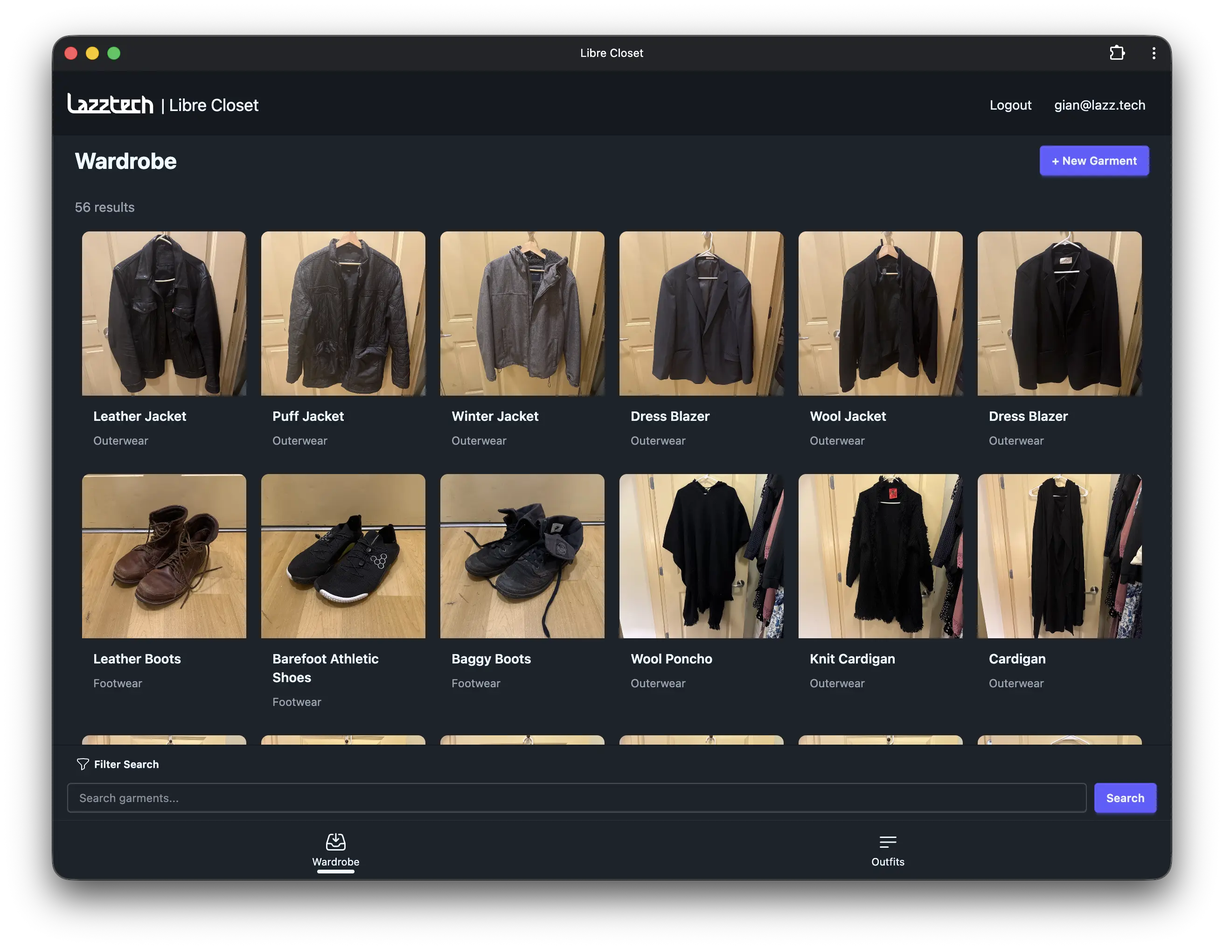
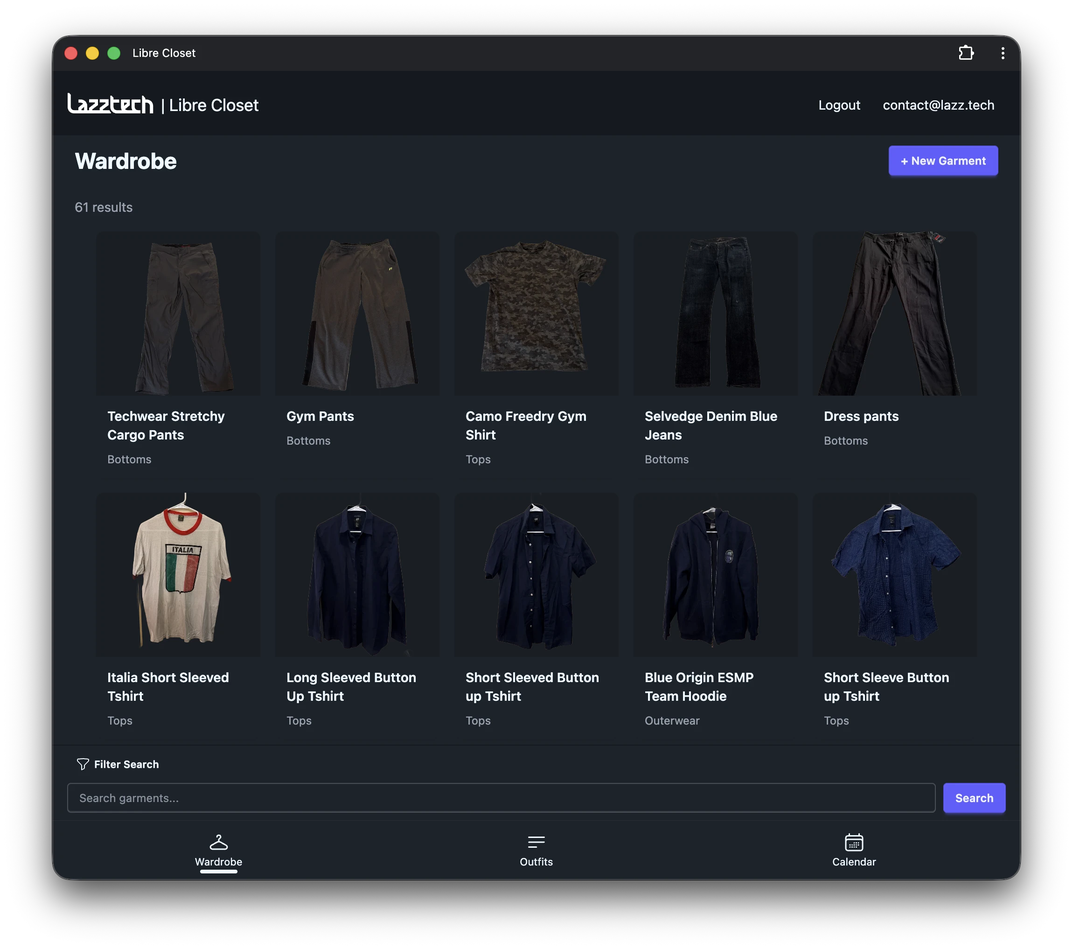
v0.2.0 (#45)
* readme

* New screenshots

* readme

* readme

* formatting

* changelog

* readme dynamic ghcr pulls badge

* readme

* landing page updates

* dock icon

* screenshots

* mobile screenshots

diff --git a/README.md b/README.md
@@ -2,33 +2,25 @@
 
 > Your wardrobe. Your data.
 
-A free, open-source, self-hosted wardrobe organizer. Catalog your clothes, upload photos, build outfits, and access everything from your phone as an offline-ready PWA — all on your own server.
+A free, open-source, self-hosted wardrobe organizer. Catalog your clothes, upload photos, build outfits, and access everything from your phone as an offline-ready PWA - all on your own server.
 
 [![License: AGPL-3.0](https://img.shields.io/badge/License-AGPL--3.0-blue.svg)](https://www.gnu.org/licenses/agpl-3.0)
-[![Version](https://img.shields.io/badge/Version-0.1.9-green.svg)](https://github.com/lazztech/libre-closet/tags)
-[![GHCR Pulls](https://img.shields.io/badge/GHCR%20pulls-2.85k-grey?logo=github&logoColor=959da5&labelColor=333a41)](https://github.com/lazztech/libre-closet/pkgs/container/libre-closet)
+[![Version](https://img.shields.io/badge/Version-0.2.0-green.svg)](https://github.com/lazztech/libre-closet/tags)
+[![GHCR Pulls](https://img.shields.io/badge/dynamic/json?url=https%3A%2F%2Fipitio.github.io%2Fbackage%2FLazztech%2FLibre-Closet%2Flibre-closet.json&query=downloads&label=GHCR%20pulls&logo=github&logoColor=959da5&labelColor=333a41)](https://github.com/lazztech/libre-closet/pkgs/container/libre-closet)
 [![Docker Pulls](https://img.shields.io/docker/pulls/lazztech/libre-closet?logo=docker&logoColor=959da5&labelColor=333a41&label=Docker%20Pulls)](https://hub.docker.com/r/lazztech/libre-closet)
 [![Join the Discussion](https://img.shields.io/badge/Community-Join%20the%20Discussion-2EA44F?logo=github&logoColor=white&labelColor=1F2937)](https://github.com/Lazztech/Libre-Closet/discussions)
 
-<!-- [![GHCR Pulls](https://img.shields.io/badge/dynamic/json?url=https%3A%2F%2Fipitio.github.io%2Fbackage%2Flazztech%2Flibre-closet%2Flibre-closet.json&query=%24.downloads&label=GHCR%20pulls&logo=github&logoColor=959da5&labelColor=333a41)](https://github.com/lazztech/libre-closet/pkgs/container/libre-closet) -->
-
-Crafted and engineered with care and intention by [Lazztech LLC](https://lazz.tech/about)
+Crafted and engineered with care and intention by [Lazztech LLC](https://lazz.tech/about) 🖤
 
 ---
 
 ## News
 
-#### Unreleased (v0.2.0 - Coming 4/10/26!)
-
-The following has now all been merged in and is going through some final testing before release. When it's released `0.2.0` will become the new `latest` tagged Docker image.
-
-- Clueless inspired outfit builder
-- Outfit Scheduling
-- Image background removal (Client-side and Server-side)
-- Customizable categories
+**`v0.2.0` Released! - April 10, 2026**
 
 #### Released
 
+- `v0.2.0 - April 10, 2026:` Clueless inspired outfit builder, Outfit Scheduling, Image Background Removal, & Customizable categories
 - `v0.1.9 - March 19, 2026:` Garment list now orders by most recently added
 - `v0.1.8 - March 13, 2026:` Added French, German, and Spanish language support.
 - `v0.1.7 - March 7, 2026:` Added Italian language support.
@@ -49,28 +41,36 @@ docker run -d \
 
 Open [http://localhost:3000](http://localhost:3000). No account required by default.
 
-**Want to try it without self-hosting?** A public instance is running at [https://librecloset.lazz.tech](https://librecloset.lazz.tech) — register a free account to get started. No guest login exists, but registration is instant and requires no email verification.
+**Want to try it without self-hosting?** A public instance is running at [https://librecloset.lazz.tech](https://librecloset.lazz.tech) - register a free account to get started. No guest login exists, but registration is instant and requires no email verification.
 
 ---
 
 ## Screenshots
 
-| Wardrobe (Viewed as a standalone PWA)           | Garment detail                                  | Outfit builder                                  | Outfit detail                                  |
-| ----------------------------------------------- | ----------------------------------------------- | ----------------------------------------------- | ---------------------------------------------- |
-| ![Wardrobe grid](screenshots/Screenshot_1.webp) | ![Garment detail](screenshots/Screenshot_2.png) | ![Outfit builder](screenshots/Screenshot_3.png) | ![Outfit detail](screenshots/Screenshot_4.png) |
+Note, these screenshots are taken of the web application viewed as an installed standalone PWA. This tool may also be used like a traditional web app in the browser.
+
+| Wardrobe (Mobile)                                      | Outfits (Mobile)                                 | Outfit Schedule (Mobile)                                 | Outfit Builder (Mobile)                          |
+| ------------------------------------------------------ | ------------------------------------------------ | -------------------------------------------------------- | ------------------------------------------------ |
+| ![Wardrobe grid](screenshots/Screenshot_mobile_1.webp) | ![Outfits](screenshots/Screenshot_mobile_2.webp) | ![Outfit Schedule](screenshots/Screenshot_mobile_3.webp) | ![Outfit ](screenshots/Screenshot_mobile_4.webp) |
+
+| Wardrobe (Desktop)                              | Outfits (Desktop)                         | Outfit Schedule (Desktop)                         | Outfit Builder (Desktop)                        |
+| ----------------------------------------------- | ----------------------------------------- | ------------------------------------------------- | ----------------------------------------------- |
+| ![Wardrobe grid](screenshots/Screenshot_1.webp) | ![Outfits](screenshots/Screenshot_2.webp) | ![Outfit Schedule](screenshots/Screenshot_3.webp) | ![Outfit detail](screenshots/Screenshot_4.webp) |
 
 ---
 
 ## Features
 
-- **Garment catalog** — name, category, brand, size, colors, notes, photo
-- **Outfit builder** — combine garments into saved looks
-- **Photo uploads** — images auto-converted to optimized WebP
-- **Offline-ready PWA** — install to home screen, works without internet
-- **Optional auth** — run open for personal use or enable JWT accounts for multi-user
-- **S3 or local storage** — local disk by default, swap to any S3-compatible provider
-- **SQLite or PostgreSQL** — SQLite by default, PostgreSQL for scale
-- **Multi-language** — UI available in English, Italian, French, German, and Spanish
+- **Garment catalog** - name, category, brand, size, colors, notes, photo
+- **Customizable categories** - custom category support with filtering and input suggestion as you type
+- **Outfit builder** - combine garments into saved looks with the Clueless inspired outfit builder
+- **Outfit Scheduling** - schedule out multiple outfits for given days through the week and get a view of what you've worn
+- **Image Background Removal** - Images automatically have their backgrounds removed and optimized WebP upon upload
+- **Offline-ready PWA** - install to home screen, works without internet
+- **Optional auth** - run open for personal use or enable JWT accounts for multi-user
+- **S3 or local storage** - local disk by default, swap to any S3-compatible provider
+- **SQLite or PostgreSQL** - SQLite by default, PostgreSQL for scale
+- **Multi-language** - UI available in English, Italian, French, German, and Spanish
 
 ---
 
@@ -122,37 +122,34 @@ npm run start:prod
 
 `.env` contains committed defaults. Override any value via a `.env.local` file (gitignored) or by passing real environment variables to Docker.
 
-| Variable                           | Description                                    | Default        | Example                                                                                   |
-| ---------------------------------- | ---------------------------------------------- | -------------- | ----------------------------------------------------------------------------------------- |
-| `APP_NAME`                         | Display name shown in the UI and navbar        | `Libre Closet` | `My awesome Closet manager`                                                               |
-| `DATA_PATH`                        | Directory for SQLite DB and uploaded files     | `./data`       | `./libre-closet-data`                                                                     |
-| `AUTH_ENABLED`                     | Enable JWT user accounts and login             | `false`        | `true`                                                                                    |
-| `PWA_ENABLED`                      | Enable service worker and PWA install prompt   | `false`        | `true`                                                                                    |
-| `ACCESS_TOKEN_SECRET`              | JWT signing secret — **change for production** | `ChangeMe!`    | `u9n8c2y847rfctb23468tcb689f243`                                                          |
-| `DATABASE_TYPE`                    | `sqlite` or `postgres`                         | `sqlite`       | `postgres`                                                                                |
-| `DATABASE_HOST`                    | Postgres host                                  | —              | `192.168.10.5`                                                                            |
-| `DATABASE_PORT`                    | Postgres port                                  | `5432`         | `9867`                                                                                    |
-| `DATABASE_USER`                    | Postgres user                                  | —              | `postgres`                                                                                |
-| `DATABASE_PASS`                    | Postgres password                              | —              | `7yfhcn2349cr32f`                                                                         |
-| `DATABASE_SCHEMA`                  | Postgres schema                                | `postgres`     | `libre-closet-schema`                                                                     |
-| `DATABASE_SSL`                     | Use SSL for Postgres                           | `false`        | `true`                                                                                    |
-| `FILE_STORAGE_TYPE`                | `local` or `object` (S3)                       | `local`        | `object`                                                                                  |
-| `OBJECT_STORAGE_ACCESS_KEY_ID`     | S3 access key                                  | —              | `AKIAIOSFODNN7EXAMPLE`                                                                    |
-| `OBJECT_STORAGE_SECRET_ACCESS_KEY` | S3 secret key                                  | —              | `wJalrXUtnFEMI/K7MDENG/bPxRfiCYEXAMPLEKEY`                                                |
-| `OBJECT_STORAGE_ENDPOINT`          | S3-compatible endpoint URL                     | —              | `https://s3.example.com:8443`                                                             |
-| `OBJECT_STORAGE_REGION`            | S3 region                                      | `us-east-1`    | `us-west-1`                                                                               |
-| `OBJECT_STORAGE_BUCKET_NAME`       | S3 bucket name                                 | `libre-closet` | `my-awesome-closet-manager-bucket`                                                        |
-| `EMAIL_FROM_ADDRESS`               | From address for password reset emails         | —              | `LibreCloset@example.com`                                                                 |
-| `EMAIL_TRANSPORT`                  | `gmail` or `mailgun`                           | `gmail`        | `mailgun`                                                                                 |
-| `EMAIL_API_KEY`                    | Mailgun API key                                | —              | `fyhn2437cryb248cbrdc32`                                                                  |
-| `PUBLIC_VAPID_KEY`                 | Web push — generate for production             | —              | `BEl62iUYgUivxIkv69yViEuiBIa-Ib9-SkvMeAtA3LFgDzkrxZJjSgSnfckjBJuBkr3qBUYIHBQFLXYp5Nksh8U` |
-| `PRIVATE_VAPID_KEY`                | Web push — generate for production             | —              | `UUxI4O8-FbRouAevSmBQ6o18hgE4nSG3qwvJTfKc-ls`                                             |
-
-<!-- Commented out not yet released
-| `SERVER_BG_REMOVAL_ENABLED`                    | Enable server-side ONNX inference as fallback when client-side removal didn't run (e.g. older browser) or to lazily remove background from garments uploaded before background removal shipped. Disable on very low-powered hosts to prevent CPU spikes  If `false`: nobg endpoint redirects to original, client-side script not loaded | `true`  | `false`  |
-| `SERVER_BG_REMOVAL_CONCURRENCY`                | Max concurrent server-side ONNX inference jobs (fallback path only)              | `1`            | `1`                                                                                       |
-| `SERVER_BG_REMOVAL_MODEL`                      | ONNX model size for server-side background removal (`small`, `medium`, `large`) | `small` | `medium` |
- -->
+| Variable                           | Description                                                                                                                                                                                                                                                                                                                            | Default        | Example                                                                                   |
+| ---------------------------------- | -------------------------------------------------------------------------------------------------------------------------------------------------------------------------------------------------------------------------------------------------------------------------------------------------------------------------------------- | -------------- | ----------------------------------------------------------------------------------------- |
+| `APP_NAME`                         | Display name shown in the UI and navbar                                                                                                                                                                                                                                                                                                | `Libre Closet` | `My awesome Closet manager`                                                               |
+| `DATA_PATH`                        | Directory for SQLite DB and uploaded files                                                                                                                                                                                                                                                                                             | `./data`       | `./libre-closet-data`                                                                     |
+| `AUTH_ENABLED`                     | Enable JWT user accounts and login                                                                                                                                                                                                                                                                                                     | `false`        | `true`                                                                                    |
+| `PWA_ENABLED`                      | Enable service worker and PWA install prompt                                                                                                                                                                                                                                                                                           | `false`        | `true`                                                                                    |
+| `ACCESS_TOKEN_SECRET`              | JWT signing secret - **change for production**                                                                                                                                                                                                                                                                                         | `ChangeMe!`    | `u9n8c2y847rfctb23468tcb689f243`                                                          |
+| `DATABASE_TYPE`                    | `sqlite` or `postgres`                                                                                                                                                                                                                                                                                                                 | `sqlite`       | `postgres`                                                                                |
+| `DATABASE_HOST`                    | Postgres host                                                                                                                                                                                                                                                                                                                          | -              | `192.168.10.5`                                                                            |
+| `DATABASE_PORT`                    | Postgres port                                                                                                                                                                                                                                                                                                                          | `5432`         | `9867`                                                                                    |
+| `DATABASE_USER`                    | Postgres user                                                                                                                                                                                                                                                                                                                          | -              | `postgres`                                                                                |
+| `DATABASE_PASS`                    | Postgres password                                                                                                                                                                                                                                                                                                                      | -              | `7yfhcn2349cr32f`                                                                         |
+| `DATABASE_SCHEMA`                  | Postgres schema                                                                                                                                                                                                                                                                                                                        | `postgres`     | `libre-closet-schema`                                                                     |
+| `DATABASE_SSL`                     | Use SSL for Postgres                                                                                                                                                                                                                                                                                                                   | `false`        | `true`                                                                                    |
+| `FILE_STORAGE_TYPE`                | `local` or `object` (S3)                                                                                                                                                                                                                                                                                                               | `local`        | `object`                                                                                  |
+| `OBJECT_STORAGE_ACCESS_KEY_ID`     | S3 access key                                                                                                                                                                                                                                                                                                                          | -              | `AKIAIOSFODNN7EXAMPLE`                                                                    |
+| `OBJECT_STORAGE_SECRET_ACCESS_KEY` | S3 secret key                                                                                                                                                                                                                                                                                                                          | -              | `wJalrXUtnFEMI/K7MDENG/bPxRfiCYEXAMPLEKEY`                                                |
+| `OBJECT_STORAGE_ENDPOINT`          | S3-compatible endpoint URL                                                                                                                                                                                                                                                                                                             | -              | `https://s3.example.com:8443`                                                             |
+| `OBJECT_STORAGE_REGION`            | S3 region                                                                                                                                                                                                                                                                                                                              | `us-east-1`    | `us-west-1`                                                                               |
+| `OBJECT_STORAGE_BUCKET_NAME`       | S3 bucket name                                                                                                                                                                                                                                                                                                                         | `libre-closet` | `my-awesome-closet-manager-bucket`                                                        |
+| `EMAIL_FROM_ADDRESS`               | From address for password reset emails                                                                                                                                                                                                                                                                                                 | -              | `LibreCloset@example.com`                                                                 |
+| `EMAIL_TRANSPORT`                  | `gmail` or `mailgun`                                                                                                                                                                                                                                                                                                                   | `gmail`        | `mailgun`                                                                                 |
+| `EMAIL_API_KEY`                    | Mailgun API key                                                                                                                                                                                                                                                                                                                        | -              | `fyhn2437cryb248cbrdc32`                                                                  |
+| `PUBLIC_VAPID_KEY`                 | Web push - generate for production                                                                                                                                                                                                                                                                                                     | -              | `BEl62iUYgUivxIkv69yViEuiBIa-Ib9-SkvMeAtA3LFgDzkrxZJjSgSnfckjBJuBkr3qBUYIHBQFLXYp5Nksh8U` |
+| `PRIVATE_VAPID_KEY`                | Web push - generate for production                                                                                                                                                                                                                                                                                                     | -              | `UUxI4O8-FbRouAevSmBQ6o18hgE4nSG3qwvJTfKc-ls`                                             |
+| `SERVER_BG_REMOVAL_ENABLED`        | Enable server-side ONNX inference as fallback when client-side removal didn't run (e.g. older browser) or to lazily remove background from garments uploaded before background removal shipped. Disable on very low-powered hosts to prevent CPU spikes If `false`: nobg endpoint redirects to original, client-side script not loaded | `true`         | `false`                                                                                   |
+| `SERVER_BG_REMOVAL_CONCURRENCY`    | Max concurrent server-side ONNX inference jobs (fallback path only)                                                                                                                                                                                                                                                                    | `1`            | `1`                                                                                       |
+| `SERVER_BG_REMOVAL_MODEL`          | ONNX model size for server-side background removal (`small`, `medium`, `large`)                                                                                                                                                                                                                                                        | `small`        | `medium`                                                                                  |
 
 Generate JWT secret:
 
@@ -172,7 +169,7 @@ npx web-push generate-vapid-keys
 
 ### Prerequisites
 
-- Node (see `.nvmrc`) — install via [nvm](https://github.com/nvm-sh/nvm)
+- Node (see `.nvmrc`) - install via [nvm](https://github.com/nvm-sh/nvm)
 - Docker (optional, for Postgres testing)
 
 ```bash
@@ -218,7 +215,7 @@ docker buildx build --platform linux/amd64 --no-cache -f docker/Dockerfile . -t 
 
 ## Deployment recommendations
 
-For most self-hosters: deploy to a VPS via [Coolify](https://coolify.io/) or Portainer using the docker-compose above with SQLite + local storage. SQLite handles thousands of users without issue — see [DjangoCon 2023: Use SQLite in Production](https://youtu.be/yTicYJDT1zE).
+For most self-hosters: deploy to a VPS via [Coolify](https://coolify.io/) or Portainer using the docker-compose above with SQLite + local storage. SQLite handles thousands of users without issue - see [DjangoCon 2023: Use SQLite in Production](https://youtu.be/yTicYJDT1zE).
 
 If you need horizontal scaling later, switch to S3-compatible storage and add [Litestream](https://litestream.io/) for streaming SQLite backups before considering a PostgreSQL migration.
 
@@ -226,7 +223,7 @@ If you need horizontal scaling later, switch to S3-compatible storage and add [L
 
 ## Contributing
 
-PRs and issues are welcome. This project is licensed under AGPL-3.0 — contributions must be compatible with that license.
+PRs and issues are welcome. This project is licensed under AGPL-3.0 - contributions must be compatible with that license.
 
 ---
 

diff --git a/CHANGELOG.md b/CHANGELOG.md
@@ -7,10 +7,16 @@ and this project adheres to [Semantic Versioning](https://semver.org/spec/v2.0.0
 
 ## Unreleased
 
+- ...
+
+## [0.2.0] - 2026-04-10
+
 #### Added
 
-- Background removal
-- New clueless inspired outfit builder
+- Clueless inspired outfit builder
+- Outfit Scheduling
+- Image background removal (Client-side and Server-side)
+- Customizable categories
 
 ## [0.1.9] - 2026-03-19
 
